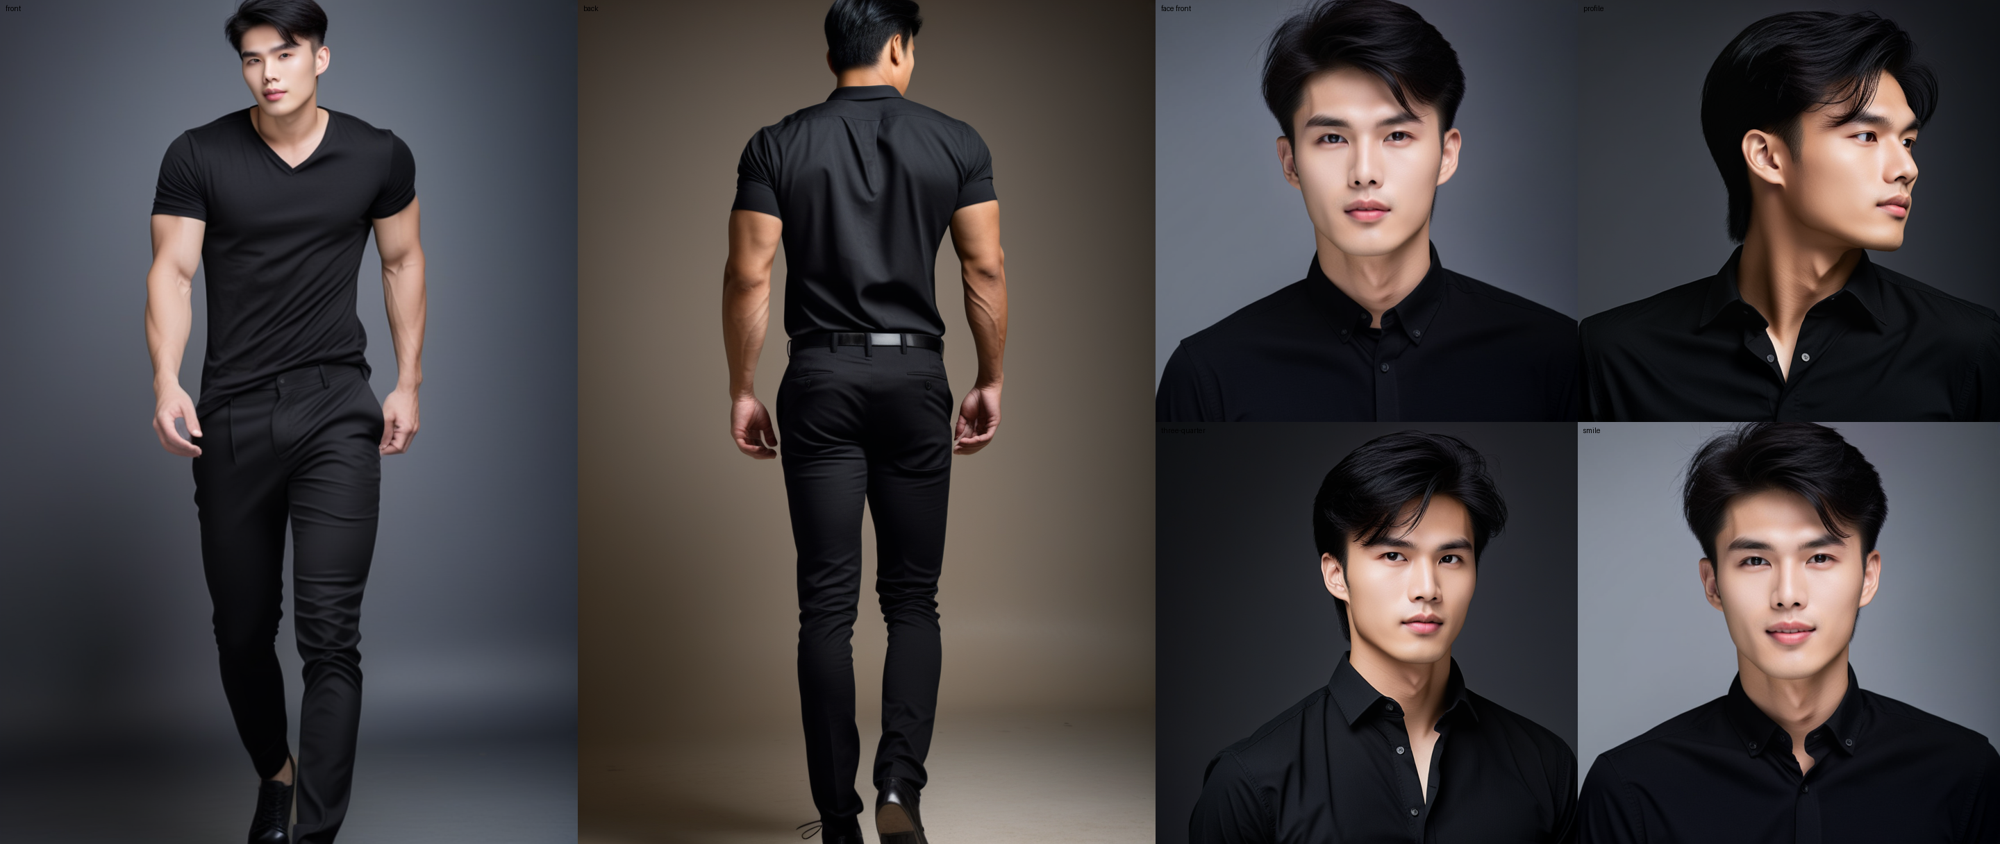
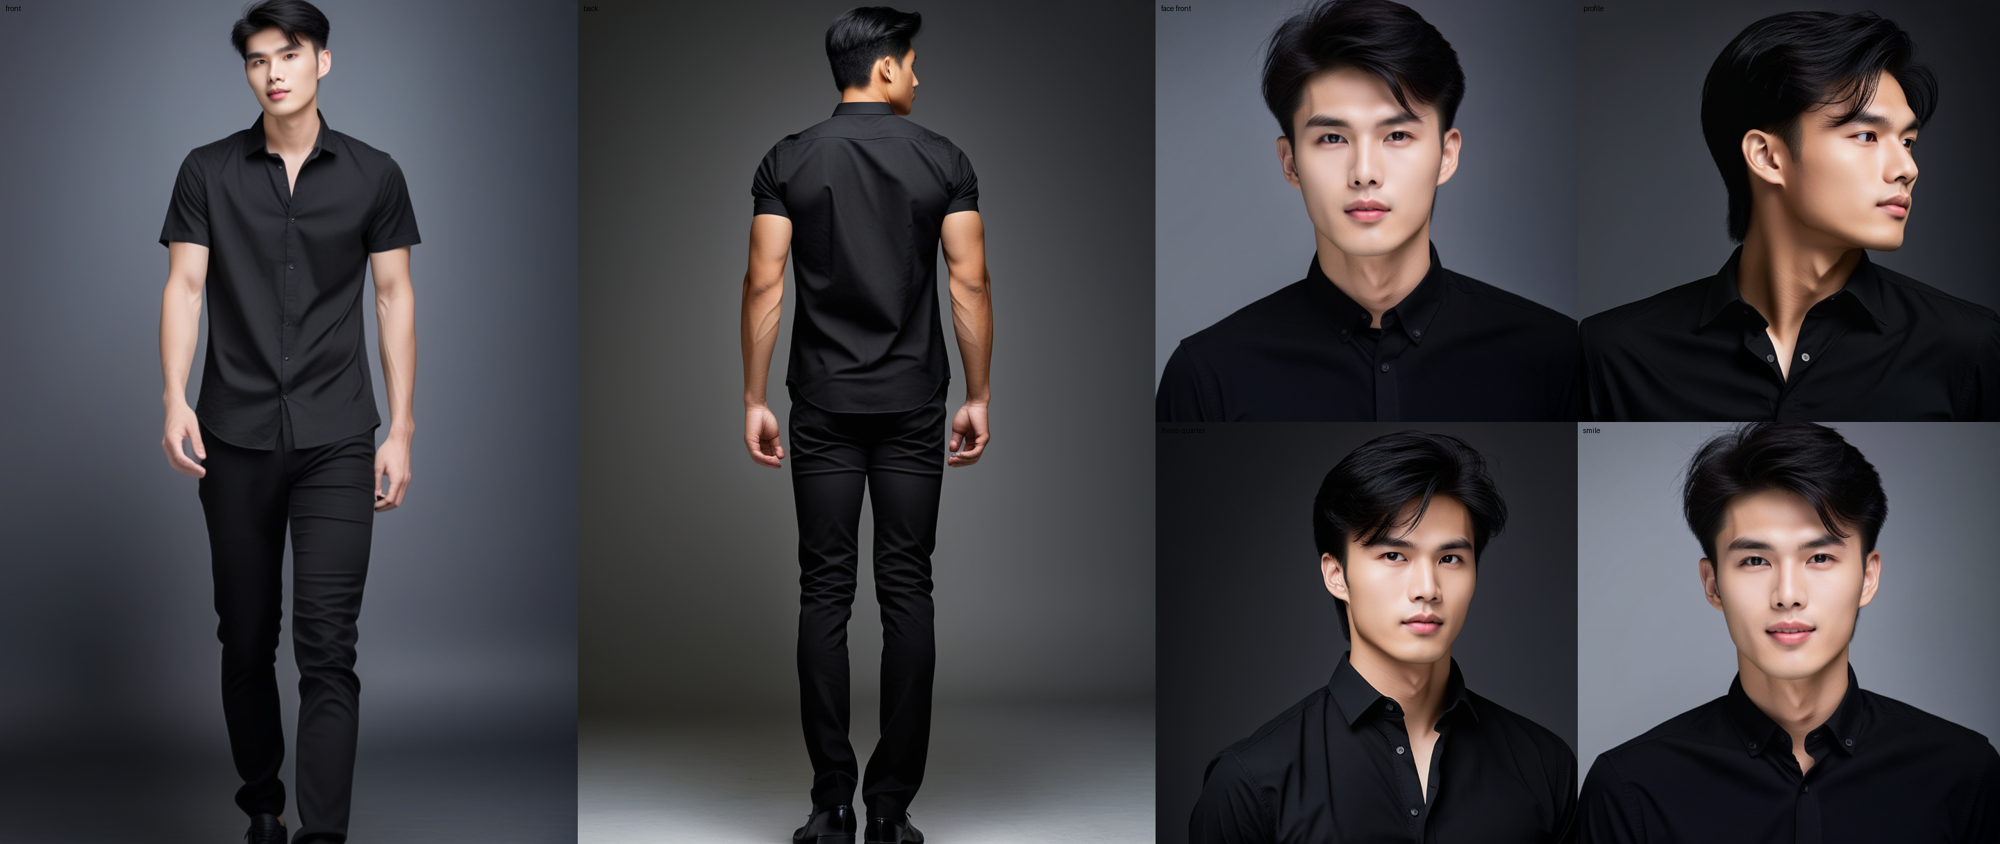
feat(phase28): Task 28.2 sheets after round 4 (man long neck/sloped shoulders; woman bust only slightly fuller)

Changed region(s): [[0.279, 0.0, 0.589, 1.0], [0.062, 0.0, 0.217, 0.7085], [0.093, 0.7393, 0.217, 1.0]]

diff --git a/docs/operations/phase28-characters/prompts.md b/docs/operations/phase28-characters/prompts.md
@@ -12,54 +12,54 @@ Lan, a young Vietnamese woman. 160 cm, 50 kg, a slender hourglass figure with a 
 
 **Detailed description:** Full-body front view, standing upright, feet together, arms relaxed at the sides, facing the camera with a calm neutral expression; the whole body from head to shoes is visible. Lan, a young Vietnamese woman. 160 cm, 50 kg, a slender hourglass figure with a narrow waist and gently rounded hips, upright posture. Very long straight black hair with side bangs, fair luminous skin, a soft delicate face with large dark eyes. All-white outfit.
 
-**Generation prompt:** `editorial photo, white studio background, soft light, crisp sharp focus, high resolution, beautiful young Vietnamese woman, very long straight black hair with side bangs, fair skin, tight short-sleeve white blouse tucked in, slim straight white trousers, white shoes, full body, standing straight facing camera, arms at sides, full bust, slim waist, narrow hips, slim legs`
+**Generation prompt:** `editorial photo, white studio background, soft light, crisp sharp focus, high resolution, voluptuous busty young Vietnamese woman, very long straight black hair, fair skin, tight white blouse stretched across the chest, slim white trousers, white shoes, full body, standing straight facing camera, arms at sides, large full bust, curvy hourglass, tiny waist, narrow hips`
 
-**Negative prompt:** `blurry, low resolution, cartoon, anime, 3d render, ugly, deformed, extra fingers, extra person, glasses, jewelry, text, watermark, nude, bikini, swimsuit, cleavage, low cut, patterned clothes, black clothes, colorful clothes, short hair, tan skin, grey clothes, wide hips, flared trousers, loose blouse`
+**Negative prompt:** `blurry, low resolution, cartoon, anime, 3d render, ugly, deformed, extra fingers, extra person, glasses, jewelry, text, watermark, nude, bikini, swimsuit, cleavage, low cut, patterned clothes, black clothes, colorful clothes, short hair, tan skin, grey clothes, wide hips, flared trousers, small bust, flat chest`
 
 
-### full_back (seed 21, face reference strength 0.0)
+### full_back (seed 42, face reference strength 0.0)
 
 **Detailed description:** Full-body back view, standing upright with the back to the camera; the hair, the back of the garments and the shoes are visible. Lan, a young Vietnamese woman. 160 cm, 50 kg, a slender hourglass figure with a narrow waist and gently rounded hips, upright posture. Very long straight black hair with side bangs, fair luminous skin, a soft delicate face with large dark eyes. All-white outfit.
 
-**Generation prompt:** `editorial photo, white studio background, soft light, crisp sharp focus, high resolution, beautiful young Vietnamese woman, very long straight black hair with side bangs, fair skin, tight short-sleeve white blouse tucked in, slim straight white trousers, white shoes, full body from behind, back view, standing straight, full bust, slim waist, narrow hips, slim legs`
+**Generation prompt:** `editorial photo, white studio background, soft light, crisp sharp focus, high resolution, voluptuous busty young Vietnamese woman, very long straight black hair, fair skin, tight white blouse stretched across the chest, slim white trousers, white shoes, full body from behind, back view, standing straight, large full bust, curvy hourglass, tiny waist, narrow hips`
 
-**Negative prompt:** `blurry, low resolution, cartoon, anime, 3d render, ugly, deformed, extra fingers, extra person, glasses, jewelry, text, watermark, nude, bikini, swimsuit, cleavage, low cut, patterned clothes, black clothes, colorful clothes, short hair, tan skin, grey clothes, wide hips, flared trousers, loose blouse`
+**Negative prompt:** `blurry, low resolution, cartoon, anime, 3d render, ugly, deformed, extra fingers, extra person, glasses, jewelry, text, watermark, nude, bikini, swimsuit, cleavage, low cut, patterned clothes, black clothes, colorful clothes, short hair, tan skin, grey clothes, wide hips, flared trousers, small bust, flat chest`
 
 
 ### face_front (seed 21, face reference strength 0.65)
 
 **Detailed description:** Close-up of the face and shoulders from the front, calm neutral expression, eyes looking straight at the camera, hair framing the face. Lan, a young Vietnamese woman. 160 cm, 50 kg, a slender hourglass figure with a narrow waist and gently rounded hips, upright posture. Very long straight black hair with side bangs, fair luminous skin, a soft delicate face with large dark eyes. All-white outfit.
 
-**Generation prompt:** `editorial photo, white studio background, soft light, crisp sharp focus, high resolution, beautiful young Vietnamese woman, very long straight black hair with side bangs, fair skin, tight short-sleeve white blouse tucked in, close-up face portrait, facing the camera, calm neutral expression`
+**Generation prompt:** `editorial photo, white studio background, soft light, crisp sharp focus, high resolution, voluptuous busty young Vietnamese woman, very long straight black hair, fair skin, tight white blouse stretched across the chest, close-up face portrait, facing the camera, calm neutral expression`
 
-**Negative prompt:** `blurry, low resolution, cartoon, anime, 3d render, ugly, deformed, extra fingers, extra person, glasses, jewelry, text, watermark, nude, bikini, swimsuit, cleavage, low cut, patterned clothes, black clothes, colorful clothes, short hair, tan skin, grey clothes, wide hips, flared trousers, loose blouse`
+**Negative prompt:** `blurry, low resolution, cartoon, anime, 3d render, ugly, deformed, extra fingers, extra person, glasses, jewelry, text, watermark, nude, bikini, swimsuit, cleavage, low cut, patterned clothes, black clothes, colorful clothes, short hair, tan skin, grey clothes, wide hips, flared trousers, small bust, flat chest`
 
 
 ### face_profile (seed 21, face reference strength 0.2)
 
 **Detailed description:** Close-up of the head in a strict side profile facing right: forehead, nose bridge, lips, chin line and jaw, and the ear are visible. Lan, a young Vietnamese woman. 160 cm, 50 kg, a slender hourglass figure with a narrow waist and gently rounded hips, upright posture. Very long straight black hair with side bangs, fair luminous skin, a soft delicate face with large dark eyes. All-white outfit.
 
-**Generation prompt:** `editorial photo, white studio background, soft light, crisp sharp focus, high resolution, beautiful young Vietnamese woman, very long straight black hair with side bangs, fair skin, tight short-sleeve white blouse tucked in, close-up side profile portrait, face turned 90 degrees to the right`
+**Generation prompt:** `editorial photo, white studio background, soft light, crisp sharp focus, high resolution, voluptuous busty young Vietnamese woman, very long straight black hair, fair skin, tight white blouse stretched across the chest, close-up side profile portrait, face turned 90 degrees to the right`
 
-**Negative prompt:** `blurry, low resolution, cartoon, anime, 3d render, ugly, deformed, extra fingers, extra person, glasses, jewelry, text, watermark, nude, bikini, swimsuit, cleavage, low cut, patterned clothes, black clothes, colorful clothes, short hair, tan skin, grey clothes, wide hips, flared trousers, loose blouse`
+**Negative prompt:** `blurry, low resolution, cartoon, anime, 3d render, ugly, deformed, extra fingers, extra person, glasses, jewelry, text, watermark, nude, bikini, swimsuit, cleavage, low cut, patterned clothes, black clothes, colorful clothes, short hair, tan skin, grey clothes, wide hips, flared trousers, small bust, flat chest`
 
 
 ### face_three_quarter (seed 21, face reference strength 0.2)
 
 **Detailed description:** Close-up of the face turned about 45 degrees, both eyes visible, the far cheek partly hidden by the nose line, a soft natural expression. Lan, a young Vietnamese woman. 160 cm, 50 kg, a slender hourglass figure with a narrow waist and gently rounded hips, upright posture. Very long straight black hair with side bangs, fair luminous skin, a soft delicate face with large dark eyes. All-white outfit.
 
-**Generation prompt:** `editorial photo, white studio background, soft light, crisp sharp focus, high resolution, beautiful young Vietnamese woman, very long straight black hair with side bangs, fair skin, tight short-sleeve white blouse tucked in, close-up three-quarter view portrait, face turned 45 degrees`
+**Generation prompt:** `editorial photo, white studio background, soft light, crisp sharp focus, high resolution, voluptuous busty young Vietnamese woman, very long straight black hair, fair skin, tight white blouse stretched across the chest, close-up three-quarter view portrait, face turned 45 degrees`
 
-**Negative prompt:** `blurry, low resolution, cartoon, anime, 3d render, ugly, deformed, extra fingers, extra person, glasses, jewelry, text, watermark, nude, bikini, swimsuit, cleavage, low cut, patterned clothes, black clothes, colorful clothes, short hair, tan skin, grey clothes, wide hips, flared trousers, loose blouse`
+**Negative prompt:** `blurry, low resolution, cartoon, anime, 3d render, ugly, deformed, extra fingers, extra person, glasses, jewelry, text, watermark, nude, bikini, swimsuit, cleavage, low cut, patterned clothes, black clothes, colorful clothes, short hair, tan skin, grey clothes, wide hips, flared trousers, small bust, flat chest`
 
 
 ### face_smile (seed 21, face reference strength 0.5)
 
 **Detailed description:** Close-up of the face and shoulders from the front with a warm natural smile, teeth slightly visible, eyes engaged, hair framing the face; the talking-video expression. Lan, a young Vietnamese woman. 160 cm, 50 kg, a slender hourglass figure with a narrow waist and gently rounded hips, upright posture. Very long straight black hair with side bangs, fair luminous skin, a soft delicate face with large dark eyes. All-white outfit.
 
-**Generation prompt:** `editorial photo, white studio background, soft light, crisp sharp focus, high resolution, beautiful young Vietnamese woman, very long straight black hair with side bangs, fair skin, tight short-sleeve white blouse tucked in, close-up face portrait, facing the camera, big happy smile, teeth visible`
+**Generation prompt:** `editorial photo, white studio background, soft light, crisp sharp focus, high resolution, voluptuous busty young Vietnamese woman, very long straight black hair, fair skin, tight white blouse stretched across the chest, close-up face portrait, facing the camera, big happy smile, teeth visible`
 
-**Negative prompt:** `blurry, low resolution, cartoon, anime, 3d render, ugly, deformed, extra fingers, extra person, glasses, jewelry, text, watermark, nude, bikini, swimsuit, cleavage, low cut, patterned clothes, black clothes, colorful clothes, short hair, tan skin, grey clothes, wide hips, flared trousers, loose blouse`
+**Negative prompt:** `blurry, low resolution, cartoon, anime, 3d render, ugly, deformed, extra fingers, extra person, glasses, jewelry, text, watermark, nude, bikini, swimsuit, cleavage, low cut, patterned clothes, black clothes, colorful clothes, short hair, tan skin, grey clothes, wide hips, flared trousers, small bust, flat chest`
 
 
 ## Minh (man)
@@ -71,16 +71,16 @@ Minh, a young Vietnamese man. 180 cm, 80 kg, a lean muscular athletic build: bro
 
 **Detailed description:** Full-body front view, standing upright, feet together, arms relaxed at the sides, facing the camera with a calm neutral expression; the whole body from head to shoes is visible. Minh, a young Vietnamese man. 180 cm, 80 kg, a lean muscular athletic build: broad shoulders, defined chest and arms, a narrow waist, a V-shaped torso. Fair clear skin, a refined slim face with straight eyebrows and almond eyes, tousled black hair with a long side-swept fringe. All-black outfit.
 
-**Generation prompt:** `editorial photo, white studio background, soft light, crisp sharp focus, high resolution, handsome young Vietnamese man, fair skin, tousled black hair, long fringe, fitted short-sleeve black shirt, black trousers, black shoes, full body, standing straight facing camera, arms at sides, muscular broad chest, defined biceps, V-taper torso`
+**Generation prompt:** `editorial photo, white studio background, soft light, crisp sharp focus, high resolution, handsome young Vietnamese man, fair skin, tousled black hair, long fringe, fitted short-sleeve black shirt, black trousers, black shoes, full body, standing straight facing camera, arms at sides, long neck, sloped broad shoulders, slim waist, lean muscular`
 
 **Negative prompt:** `blurry, low resolution, cartoon, anime, 3d render, ugly, deformed, extra fingers, extra person, glasses, jewelry, text, watermark, nude, bikini, swimsuit, cleavage, low cut, patterned clothes, white clothes, colorful clothes, shirtless, bare back, crop top, torn clothes, beard, grey clothes, rolled sleeves, hunched shoulders`
 
 
-### full_back (seed 21, face reference strength 0.0)
+### full_back (seed 42, face reference strength 0.0)
 
 **Detailed description:** Full-body back view, standing upright with the back to the camera; the hair, the back of the garments and the shoes are visible. Minh, a young Vietnamese man. 180 cm, 80 kg, a lean muscular athletic build: broad shoulders, defined chest and arms, a narrow waist, a V-shaped torso. Fair clear skin, a refined slim face with straight eyebrows and almond eyes, tousled black hair with a long side-swept fringe. All-black outfit.
 
-**Generation prompt:** `editorial photo, white studio background, soft light, crisp sharp focus, high resolution, handsome young Vietnamese man, fair skin, tousled black hair, long fringe, fitted short-sleeve black shirt, black trousers, black shoes, full body from behind, back view, standing straight, muscular broad chest, defined biceps, V-taper torso`
+**Generation prompt:** `editorial photo, white studio background, soft light, crisp sharp focus, high resolution, handsome young Vietnamese man, fair skin, tousled black hair, long fringe, fitted short-sleeve black shirt, black trousers, black shoes, full body from behind, back view, standing straight, long neck, sloped broad shoulders, slim waist, lean muscular`
 
 **Negative prompt:** `blurry, low resolution, cartoon, anime, 3d render, ugly, deformed, extra fingers, extra person, glasses, jewelry, text, watermark, nude, bikini, swimsuit, cleavage, low cut, patterned clothes, white clothes, colorful clothes, shirtless, bare back, crop top, torn clothes, beard, grey clothes, rolled sleeves, hunched shoulders`
 

diff --git a/.viepilot/phases/28-semi-realistic-style/tasks/task-28.2.md b/.viepilot/phases/28-semi-realistic-style/tasks/task-28.2.md
@@ -134,3 +134,12 @@ Sheets recomposed (`docs/operations/phase28-characters/*_sheet_2000.png`, `promp
   77 tokens, so lower-value words are traded out.
 - Redo the 2 full-body panels per character at 3 seeds, look at them, then the man's close-ups if
   the neck still reads short.
+
+### Result of fix round 4 (2026-10-06), awaiting owner approval
+
+- **Man:** a long neck, sloped shoulders, a slim V-taper with defined arms: the Korean-idol proportion the
+  owner described (front seed 21, back seed 42).
+- **Woman:** the bust is only slightly fuller (seeds 21 and 42). Rewording the prompt (figure words first,
+  synonyms) did not change it much: with this model and a text prompt the bust under a fitted blouse
+  stays modest. Options for the owner: accept it, or use a body-shape control (an extra download
+  and a hand-drawn torso map) or a different checkpoint.
